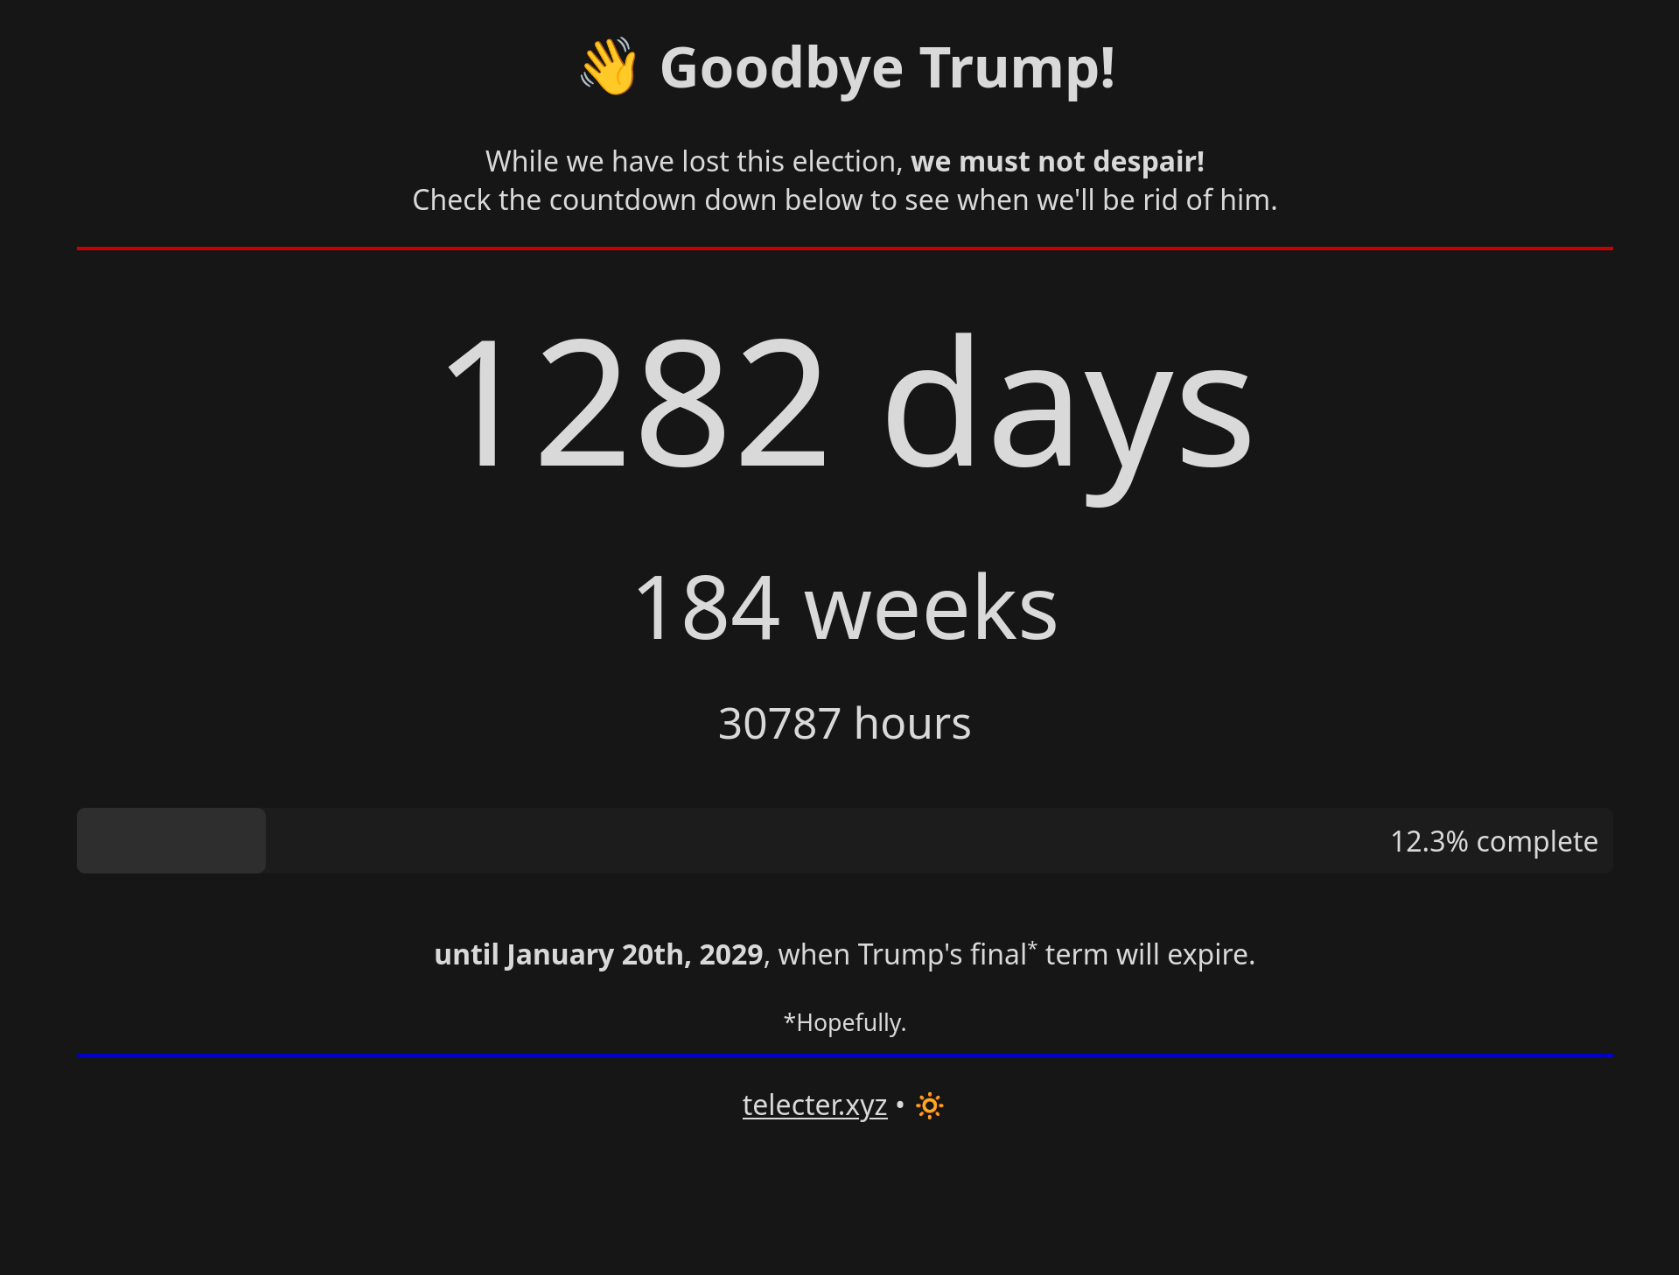
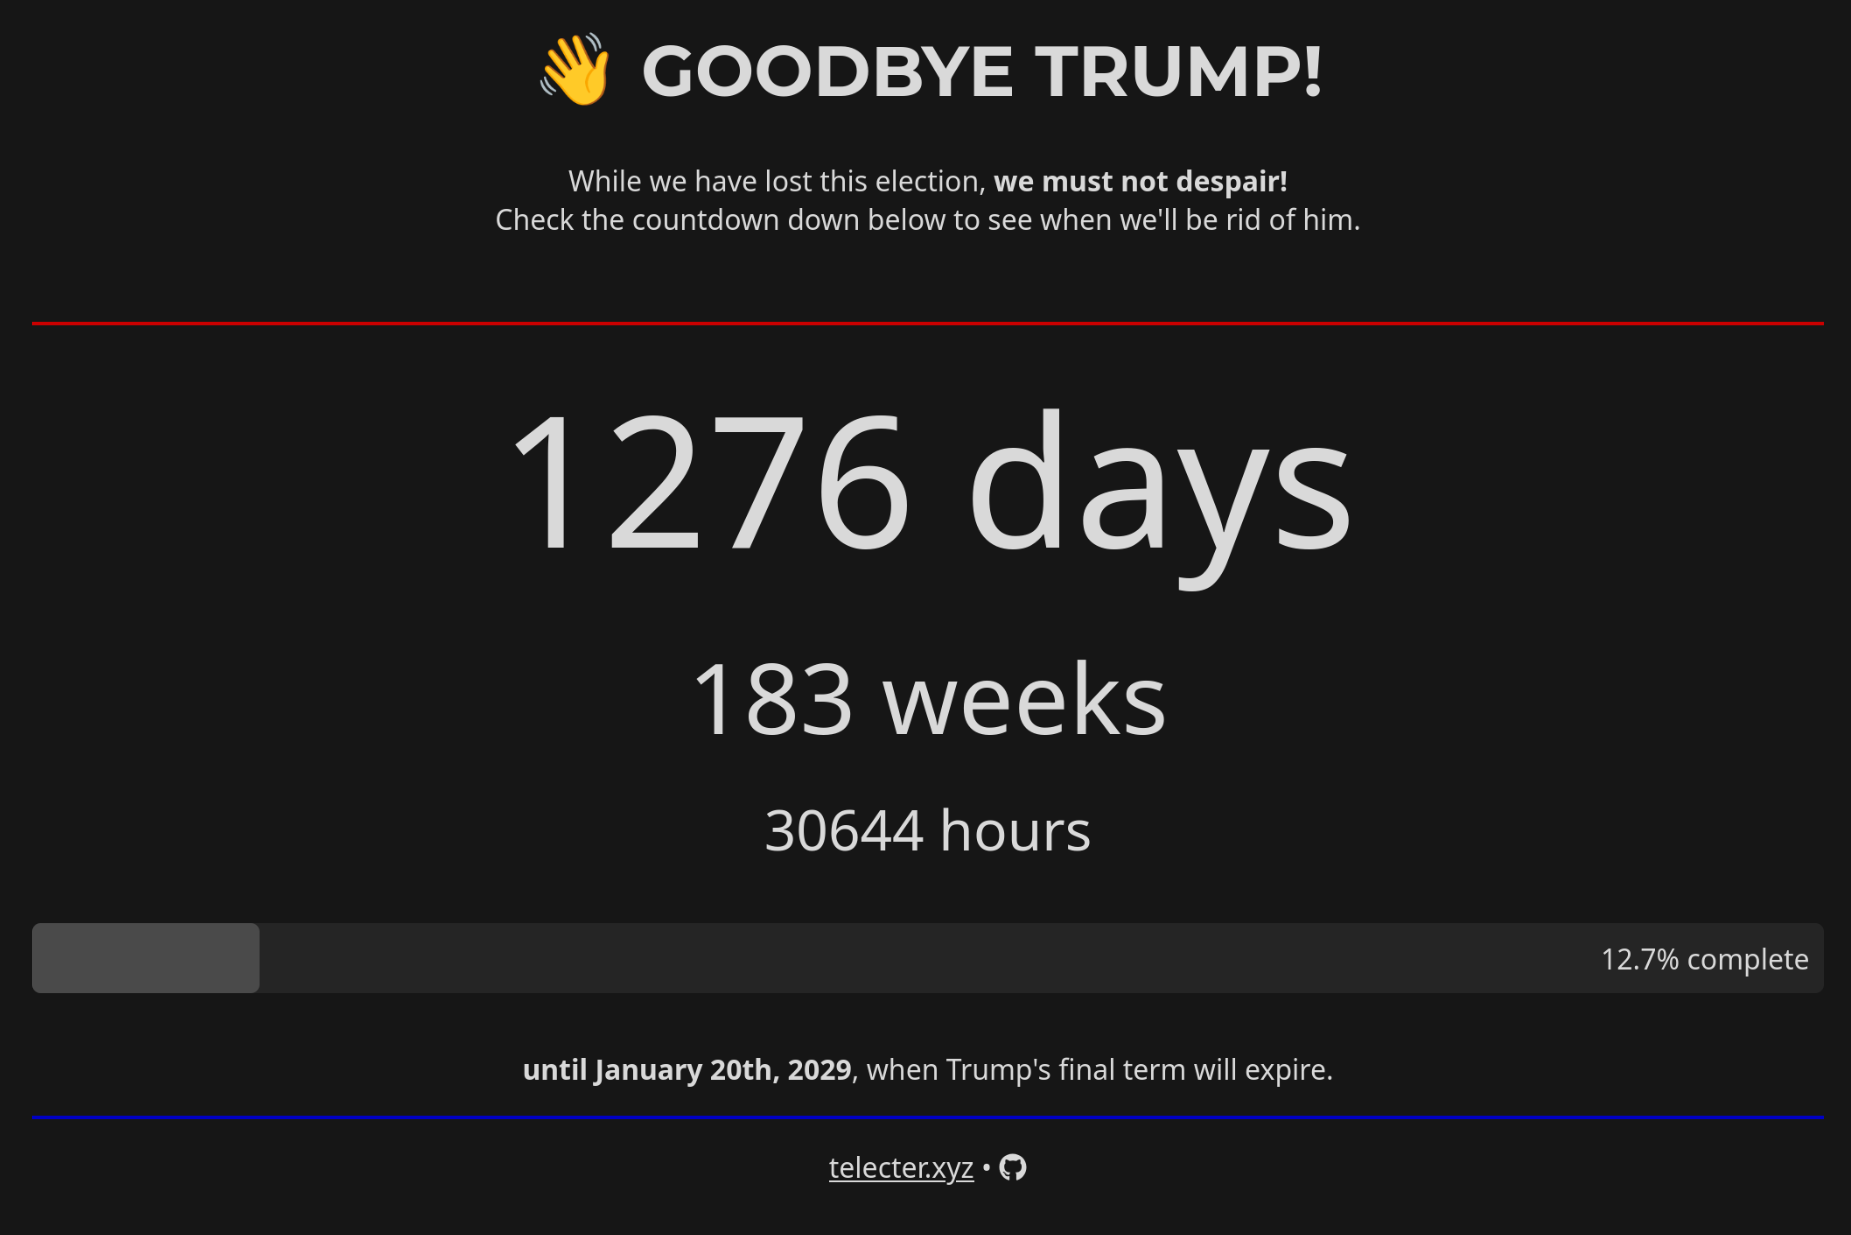
Update screenshot and README

diff --git a/README.md b/README.md
@@ -1,10 +1,8 @@
 # Goodbye Trump!
-An amazing website that will let you know when Trump is finally gone.  
+Counting down until the end of Donald Trump's presidency.
 
 You can find it at https://goodbye-trump.com.
 
 <img src="screenshot.png" alt="Screenshot of website">
 
-*This screenshot was taken on 17.07.25, hopefully the number of days is lower by now!*
-
-The countdown has total days, weeks, hours remaining, and a progress bar.
+The countdown has total days, weeks, hours remaining, and a nice progress bar to visualize everything.
